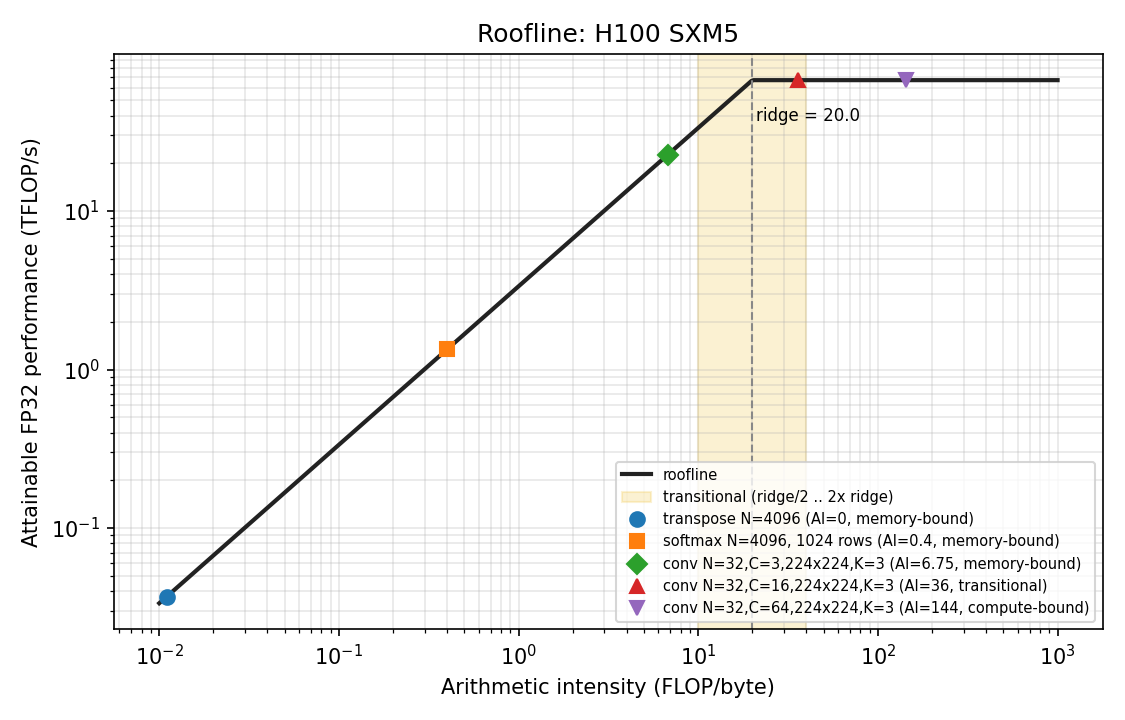
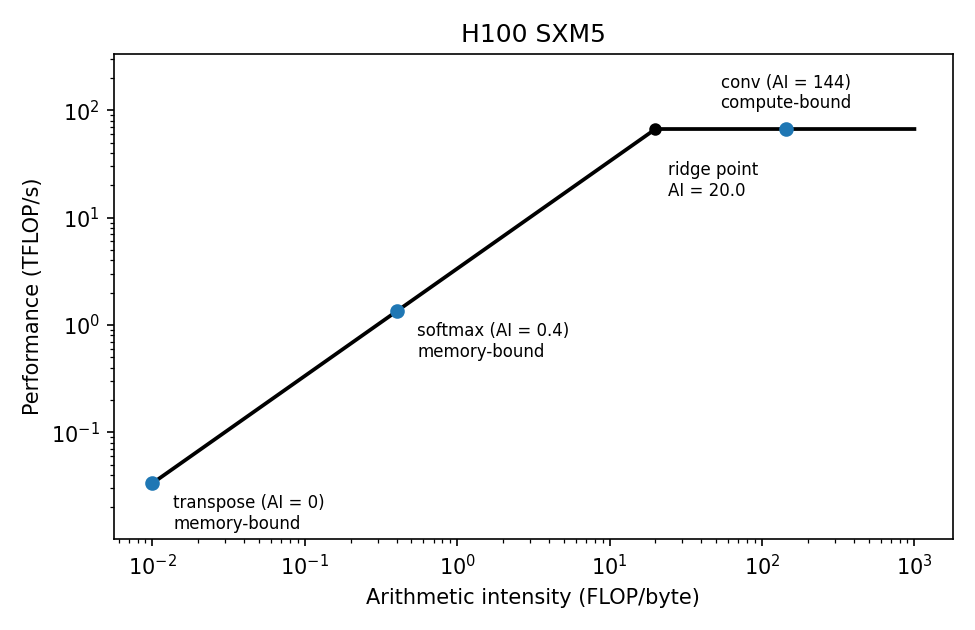
GPU HW2 roofline 10/27 16:57 PT: 圖只畫原文 P2 要求的內容
- roofline.py：只畫 roofline、ridge point、P1 三個 kernel 的 AI 點和各自的 regime；拿掉 transitional 色帶、格線、legend
- conv 只留 N=32、C=64、224x224、K=3 一組（AI 144，compute-bound），p1_p2_values.md 同步

diff --git a/gpu/hw/hw2/src/roofline.py b/gpu/hw/hw2/src/roofline.py
@@ -1,4 +1,7 @@
-"""HW2 P1/P2: AI values and roofline plots. Run: python roofline.py <out_dir>"""
+"""HW2 P1/P2: AI values and roofline plots. Run: python roofline.py <out_dir>
+
+Plot shows only what P2 asks for: the roofline, the ridge point, the P1 kernels' AIs, and each kernel's regime.
+"""
 import sys
 from pathlib import Path
 
@@ -9,39 +12,34 @@ import numpy as np
 
 B = 4  # FP32 bytes
 
-# ---- P1: AI expressions with the chosen values ----
+
 def transpose(N):
-    flops = 0
-    mem = B * N * N + B * N * N          # read A, write A^T
-    return flops, mem
+    return 0, B * N * N + B * N * N                      # no FLOPs; read A, write A^T
+
 
 def softmax_3pass(N, rows=1):
-    # pass 1: m = max x_i      -> (N-1) compares, read N
-    # pass 2: e_i = exp(x_i-m), s = sum e_i -> N sub + 4N exp + (N-1) add, read N, write N (e)
-    # pass 3: y_i = e_i / s    -> N div, read N (e), write N (y)
-    flops = rows * ((N - 1) + (N + 4 * N + (N - 1)) + N)
-    mem = rows * (B * N + (B * N + B * N) + (B * N + B * N))
+    flops = rows * ((N - 1) + (N + 4 * N + (N - 1)) + N)  # max; sub + exp + sum; divide
+    mem = rows * (B * N + 2 * B * N + 2 * B * N)          # read x; read x + write e; read e + write y
     return flops, mem
+
 
 def conv2d(N, C, H, W, K):
-    # out[n,co,h,w] = sum_{ci,kh,kw} in[n,ci,h+kh,w+kw] * w[co,ci,kh,kw]; C_in = C_out = C, stride 1, same padding
-    flops = 2 * N * C * H * W * C * K * K   # one FMA (=2 FLOP) per MAC
-    mem = B * N * C * H * W + B * C * C * K * K + B * N * C * H * W   # read input, read weights, write output
+    flops = 2 * N * C * H * W * C * K * K                 # one FMA (= 2 FLOP) per MAC, C_in = C_out = C
+    mem = B * N * C * H * W + B * C * C * K * K + B * N * C * H * W
     return flops, mem
 
+
 KERNELS = [
-    ("transpose N=4096", *transpose(4096)),
-    ("softmax N=4096, 1024 rows", *softmax_3pass(4096, 1024)),
-    ("conv N=32,C=3,224x224,K=3", *conv2d(32, 3, 224, 224, 3)),
-    ("conv N=32,C=16,224x224,K=3", *conv2d(32, 16, 224, 224, 3)),
-    ("conv N=32,C=64,224x224,K=3", *conv2d(32, 64, 224, 224, 3)),
+    ("transpose", "N = 4096", *transpose(4096)),
+    ("softmax", "N = 4096, 1024 rows", *softmax_3pass(4096, 1024)),
+    ("conv", "N = 32, C = 64, 224x224, K = 3", *conv2d(32, 64, 224, 224, 3)),
 ]
 
 GPUS = {
-    "Quadro RTX 6000 (TU102)": dict(peak=16.3e12, bw=672e9,
-                                     note="4608 FP32 cores x 2 x 1.77 GHz boost; 384-bit GDDR6 @ 14 Gbps"),
-    "H100 SXM5": dict(peak=67e12, bw=3.35e12, note="FP32 (non-Tensor) 67 TFLOPS; HBM3 3.35 TB/s"),
+    "Quadro RTX 6000 (TU102)": dict(peak=16.3e12, bw=672e9, file="roofline_quadro.png"),
+    "H100 SXM5": dict(peak=67e12, bw=3.35e12, file="roofline_h100.png"),
 }
+
 
 def regime(ai, ridge):
     if ai < ridge / 2:
@@ -50,43 +48,44 @@ def regime(ai, ridge):
         return "compute-bound"
     return "transitional"
 
+
 def main(out):
     out.mkdir(parents=True, exist_ok=True)
-    lines = ["| kernel | FLOPs | Mem bytes | AI (FLOP/B) |", "|---|---|---|---|"]
-    for name, f, m in KERNELS:
-        lines.append(f"| {name} | {f:.4g} | {m:.4g} | {f / m:.4g} |")
+    lines = ["| kernel | chosen values | FLOPs | Mem bytes | AI (FLOP/B) |", "|---|---|---|---|---|"]
+    for name, vals, f, m in KERNELS:
+        lines.append(f"| {name} | {vals} | {f:.4g} | {m:.4g} | {f / m:.4g} |")
     for g, s in GPUS.items():
         ridge = s["peak"] / s["bw"]
-        lines.append(f"\n**{g}**: peak {s['peak']/1e12:.1f} TFLOP/s, BW {s['bw']/1e9:.0f} GB/s, ridge {ridge:.2f} FLOP/B ({s['note']})")
-        for name, f, m in KERNELS:
-            ai = f / m
-            att = min(s["peak"], ai * s["bw"])
-            lines.append(f"- {name}: AI {ai:.3g} -> {regime(ai, ridge)}, attainable {att/1e12:.3g} TFLOP/s")
+        peak_t = s["peak"] / 1e12
+        lines.append(f"\n**{g}**: peak {peak_t:.1f} TFLOP/s, BW {s['bw']/1e9:.0f} GB/s, ridge {ridge:.2f} FLOP/B")
 
-        fig, ax = plt.subplots(figsize=(7.5, 4.8), dpi=150)
+        fig, ax = plt.subplots(figsize=(6.5, 4.2), dpi=150)
         x = np.logspace(-2, 3, 400)
-        ax.loglog(x, np.minimum(s["peak"], x * s["bw"]) / 1e12, color="#222", lw=2, label="roofline")
-        ax.axvline(ridge, color="#888", ls="--", lw=1)
-        ax.axvspan(ridge / 2, ridge * 2, color="#f2c94c", alpha=0.25, label="transitional (ridge/2 .. 2x ridge)")
-        ax.text(ridge * 1.05, s["peak"] / 1e12 * 0.55, f"ridge = {ridge:.1f}", fontsize=8)
-        markers = "osD^v"
-        for (name, f, m), mk in zip(KERNELS, markers):
-            ai = max(f / m, 0.011)  # transpose AI = 0 can't sit on a log axis: pinned to the left edge
-            perf = min(s["peak"], ai * s["bw"]) / 1e12
-            lbl = f"{name} (AI={f/m:.3g}, {regime(f/m, ridge)})"
-            ax.plot(ai, perf, mk, ms=7, label=lbl)
+        ax.loglog(x, np.minimum(s["peak"], x * s["bw"]) / 1e12, color="black", lw=1.8)
+        ax.plot(ridge, peak_t, "ko", ms=5)
+        ax.annotate(f"ridge point\nAI = {ridge:.1f}", (ridge, peak_t), textcoords="offset points",
+                    xytext=(6, -32), fontsize=8, ha="left")
+        for name, _, f, m in KERNELS:
+            ai = f / m
+            r = regime(ai, ridge)
+            lines.append(f"- {name}: AI {ai:.3g} -> {r}")
+            x_plot = max(ai, 0.01)  # transpose AI = 0 cannot sit on a log axis: drawn at the left edge
+            y = min(s["peak"], x_plot * s["bw"]) / 1e12
+            ax.plot(x_plot, y, "o", color="tab:blue", ms=6)
+            label = f"{name} (AI = {ai:.3g})\n{r}"
+            ax.annotate(label, (x_plot, y), textcoords="offset points", xytext=(10, -22) if ai == 0 else (10, -22) if ai < ridge else (0, 8),
+                        fontsize=8, ha="left" if ai < ridge else "center", va="bottom" if ai >= ridge else "baseline")
+        ax.set_ylim(top=peak_t * 5, bottom=s["bw"] * 0.01 / 1e12 * 0.3)
         ax.set_xlabel("Arithmetic intensity (FLOP/byte)")
-        ax.set_ylabel("Attainable FP32 performance (TFLOP/s)")
-        ax.set_title(f"Roofline: {g}")
-        ax.grid(True, which="both", alpha=0.3)
-        ax.legend(fontsize=7, loc="lower right")
+        ax.set_ylabel("Performance (TFLOP/s)")
+        ax.set_title(g)
         fig.tight_layout()
-        fn = out / ("roofline_" + g.split()[0].lower() + ".png")
-        fig.savefig(fn)
+        fig.savefig(out / s["file"])
         plt.close(fig)
-        lines.append(f"- plot: {fn.name}")
+        lines.append(f"- plot: {s['file']}")
     (out / "p1_p2_values.md").write_text("\n".join(lines) + "\n", encoding="utf-8")
     print("\n".join(lines))
+
 
 if __name__ == "__main__":
     main(Path(sys.argv[1] if len(sys.argv) > 1 else "."))

diff --git a/gpu/hw/hw2/fig/p1_p2_values.md b/gpu/hw/hw2/fig/p1_p2_values.md
@@ -1,23 +1,17 @@
-| kernel | FLOPs | Mem bytes | AI (FLOP/B) |
-|---|---|---|---|
-| transpose N=4096 | 0 | 1.342e+08 | 0 |
-| softmax N=4096, 1024 rows | 3.355e+07 | 8.389e+07 | 0.4 |
-| conv N=32,C=3,224x224,K=3 | 2.601e+08 | 3.854e+07 | 6.75 |
-| conv N=32,C=16,224x224,K=3 | 7.399e+09 | 2.055e+08 | 36 |
-| conv N=32,C=64,224x224,K=3 | 1.184e+11 | 8.222e+08 | 144 |
+| kernel | chosen values | FLOPs | Mem bytes | AI (FLOP/B) |
+|---|---|---|---|---|
+| transpose | N = 4096 | 0 | 1.342e+08 | 0 |
+| softmax | N = 4096, 1024 rows | 3.355e+07 | 8.389e+07 | 0.4 |
+| conv | N = 32, C = 64, 224x224, K = 3 | 1.184e+11 | 8.222e+08 | 144 |
 
-**Quadro RTX 6000 (TU102)**: peak 16.3 TFLOP/s, BW 672 GB/s, ridge 24.26 FLOP/B (4608 FP32 cores x 2 x 1.77 GHz boost; 384-bit GDDR6 @ 14 Gbps)
-- transpose N=4096: AI 0 -> memory-bound, attainable 0 TFLOP/s
-- softmax N=4096, 1024 rows: AI 0.4 -> memory-bound, attainable 0.269 TFLOP/s
-- conv N=32,C=3,224x224,K=3: AI 6.75 -> memory-bound, attainable 4.54 TFLOP/s
-- conv N=32,C=16,224x224,K=3: AI 36 -> transitional, attainable 16.3 TFLOP/s
-- conv N=32,C=64,224x224,K=3: AI 144 -> compute-bound, attainable 16.3 TFLOP/s
+**Quadro RTX 6000 (TU102)**: peak 16.3 TFLOP/s, BW 672 GB/s, ridge 24.26 FLOP/B
+- transpose: AI 0 -> memory-bound
+- softmax: AI 0.4 -> memory-bound
+- conv: AI 144 -> compute-bound
 - plot: roofline_quadro.png
 
-**H100 SXM5**: peak 67.0 TFLOP/s, BW 3350 GB/s, ridge 20.00 FLOP/B (FP32 (non-Tensor) 67 TFLOPS; HBM3 3.35 TB/s)
-- transpose N=4096: AI 0 -> memory-bound, attainable 0 TFLOP/s
-- softmax N=4096, 1024 rows: AI 0.4 -> memory-bound, attainable 1.34 TFLOP/s
-- conv N=32,C=3,224x224,K=3: AI 6.75 -> memory-bound, attainable 22.6 TFLOP/s
-- conv N=32,C=16,224x224,K=3: AI 36 -> transitional, attainable 67 TFLOP/s
-- conv N=32,C=64,224x224,K=3: AI 144 -> compute-bound, attainable 67 TFLOP/s
+**H100 SXM5**: peak 67.0 TFLOP/s, BW 3350 GB/s, ridge 20.00 FLOP/B
+- transpose: AI 0 -> memory-bound
+- softmax: AI 0.4 -> memory-bound
+- conv: AI 144 -> compute-bound
 - plot: roofline_h100.png
